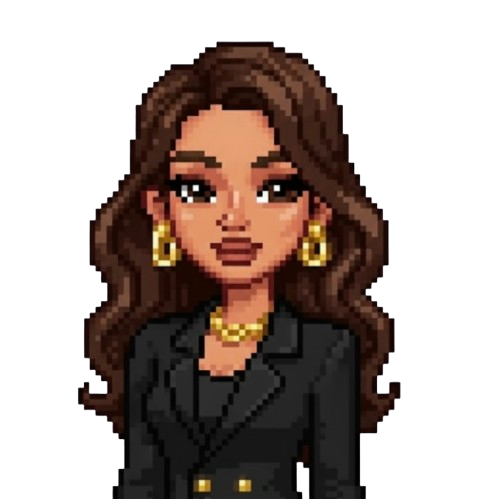
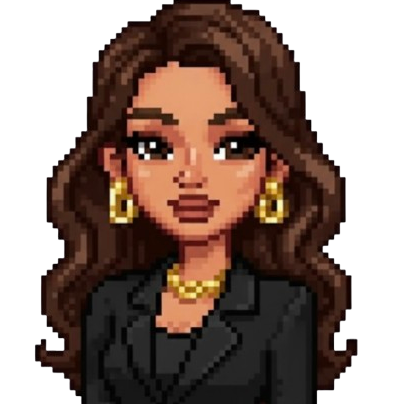
State for select

diff --git a/frontend/src/components/CharacterHeadshot.tsx b/frontend/src/components/CharacterHeadshot.tsx
@@ -1,33 +1,64 @@
+"use client";
 import {
     CharacterId,
     getCharacterImages,
     characterMap,
 } from "@/data/characters";
 import Image from "next/image";
+import { useState } from "react";
 
 export default function CharacterHeadshot({
     id,
+    size = "small",
     showName = false,
     showHoverEffect = false,
 }: {
     id: CharacterId;
-    showName: boolean;
-    showHoverEffect: boolean;
+    size?: "small" | "large";
+    showName?: boolean;
+    showHoverEffect?: boolean;
 }) {
+    const dimensions = size === "small" ? 96 : 192;
+    const [isSelected, setIsSelected] = useState(false);
+
+    const handleClick = () => {
+        if (showHoverEffect) {
+            setIsSelected(!isSelected);
+        }
+    };
+
     return (
-        <div className="flex flex-col items-center p-2">
-            <div className="border-4 border-black w-[96px] h-[96px]">
-                <div className="border-4 border-yellow-500 bg-white/50">
+        <div onClick={handleClick} className="flex flex-col items-center p-2">
+            <div
+                className={`${size === "small" ? "border-4 " : "border-8 "} ${
+                    showHoverEffect
+                        ? isSelected
+                            ? "border-yellow-600"
+                            : "hover:border-yellow-600"
+                        : ""
+                } border-black`}
+                style={{ width: `${dimensions}px`, height: `${dimensions}px` }}
+            >
+                <div
+                    className={`w-full h-full ${
+                        size === "small" ? "border-4 " : "border-6 "
+                    } border-yellow-500 bg-white/50 p-1`}
+                >
                     <Image
                         src={getCharacterImages(id).headshot}
                         alt={characterMap[id].name}
-                        width={96}
-                        height={96}
+                        width={dimensions}
+                        height={dimensions}
+                        className="w-full h-full object-cover"
                     />
                 </div>
             </div>
             {showName && (
-                <div className="text-sm text-white">
+                <div
+                    className={`${
+                        size === "large" ? "text-xl" : "text-sm"
+                    } text-white`}
+                >
                     {characterMap[id].name}
                 </div>
             )}

diff --git a/frontend/src/components/Select.tsx b/frontend/src/components/Select.tsx
@@ -6,6 +6,7 @@ export default function Select() {
     return (
         <div>
             <Background src="/backgrounds/island.png" opacity={100} />
+            <div className="text-4xl text-white font-bold">Pick a date:</div>
             <div className="flex flex-row">
                 {Object.values(CharacterId).map((character) => (
                     <CharacterHeadshot
@@ -13,6 +14,7 @@ export default function Select() {
                         showHoverEffect={true}
                         key={character}
                         id={character}
+                        size="large"
                     />
                 ))}
             </div>

diff --git a/frontend/src/data/characters.ts b/frontend/src/data/characters.ts
@@ -3,7 +3,7 @@ export enum CharacterId {
     Sienna = "sienna",
     Grace = "grace",
     Drew = "drew",
-    Hunter = "hunter",
+    // Hunter = "hunter",
 }
 
 export type Character = {
@@ -16,7 +16,7 @@ export const characterMap: Record<CharacterId, Character> = {
     [CharacterId.Sienna]: { name: "Sienna", folder: "sienna" },
     [CharacterId.Grace]: { name: "Grace", folder: "grace" },
     [CharacterId.Drew]: { name: "Drew", folder: "drew" },
-    [CharacterId.Hunter]: { name: "Hunter", folder: "hunter" },
+    // [CharacterId.Hunter]: { name: "Hunter", folder: "hunter" },
 };
 
 export function getCharacterImages(id: CharacterId) {
